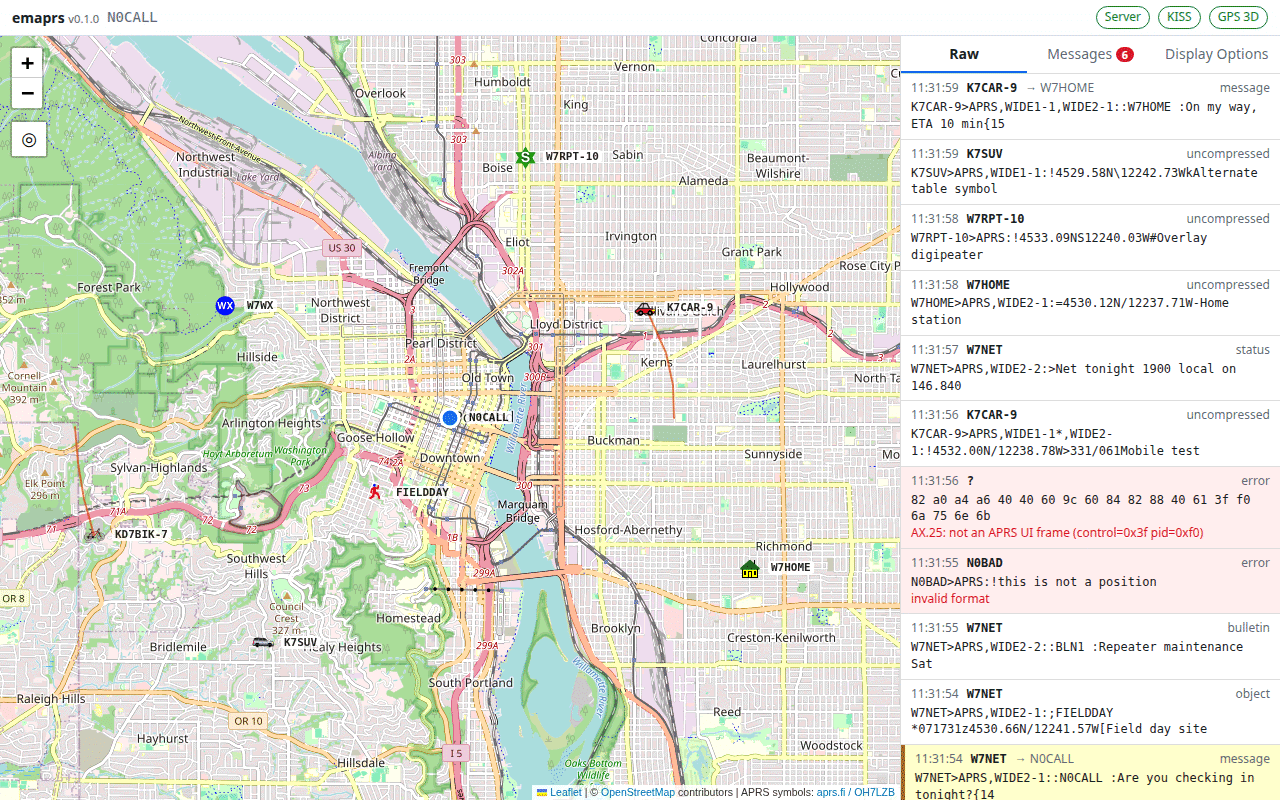
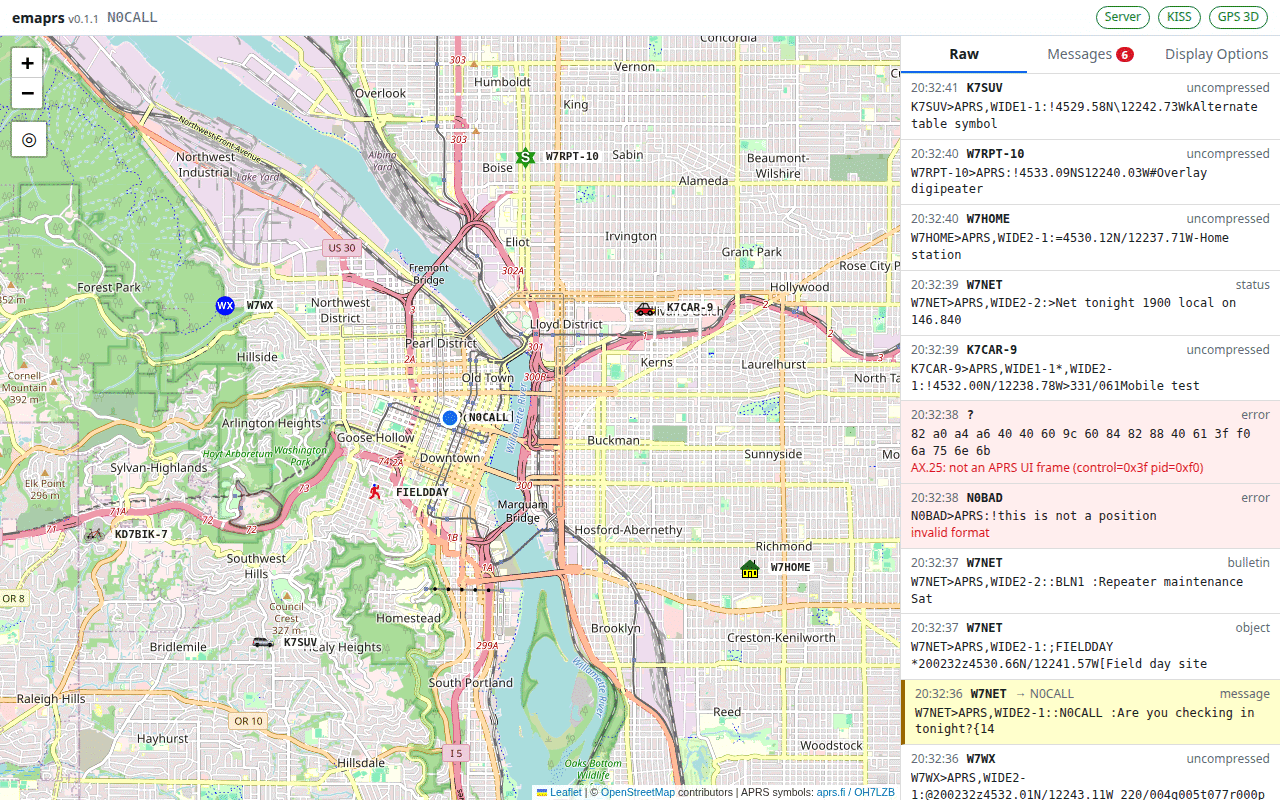
Release 0.1.1
Bump the version, move the Unreleased CHANGELOG entries under 0.1.1
(dated 2026-11-19), and regenerate the screenshots so they show the new
version. The overview no longer shows trails, since Only Selected Station
is now on by default.

Changed region(s): [[0.6875, 0.0938, 1.0, 1.0], [0.9688, 0.6875, 1.0, 0.7188], [0.375, 0.6875, 0.4062, 0.7188]]

diff --git a/emaprs/__init__.py b/emaprs/__init__.py
@@ -2,4 +2,4 @@
 # Copyright (C) 2026 Nicholas Heath
 """emaprs - Embeddable APRS: a frontend for working with APRS."""
 
-__version__ = "0.1.0"
+__version__ = "0.1.1"

diff --git a/CHANGELOG.md b/CHANGELOG.md
@@ -9,6 +9,8 @@ follow [Semantic Versioning](https://semver.org/).
 
 ## [Unreleased]
 
+## [0.1.1] - 2026-11-19
+
 ### Added
 
 - Display Options: **Only Selected Station** switch under Station Trails.
